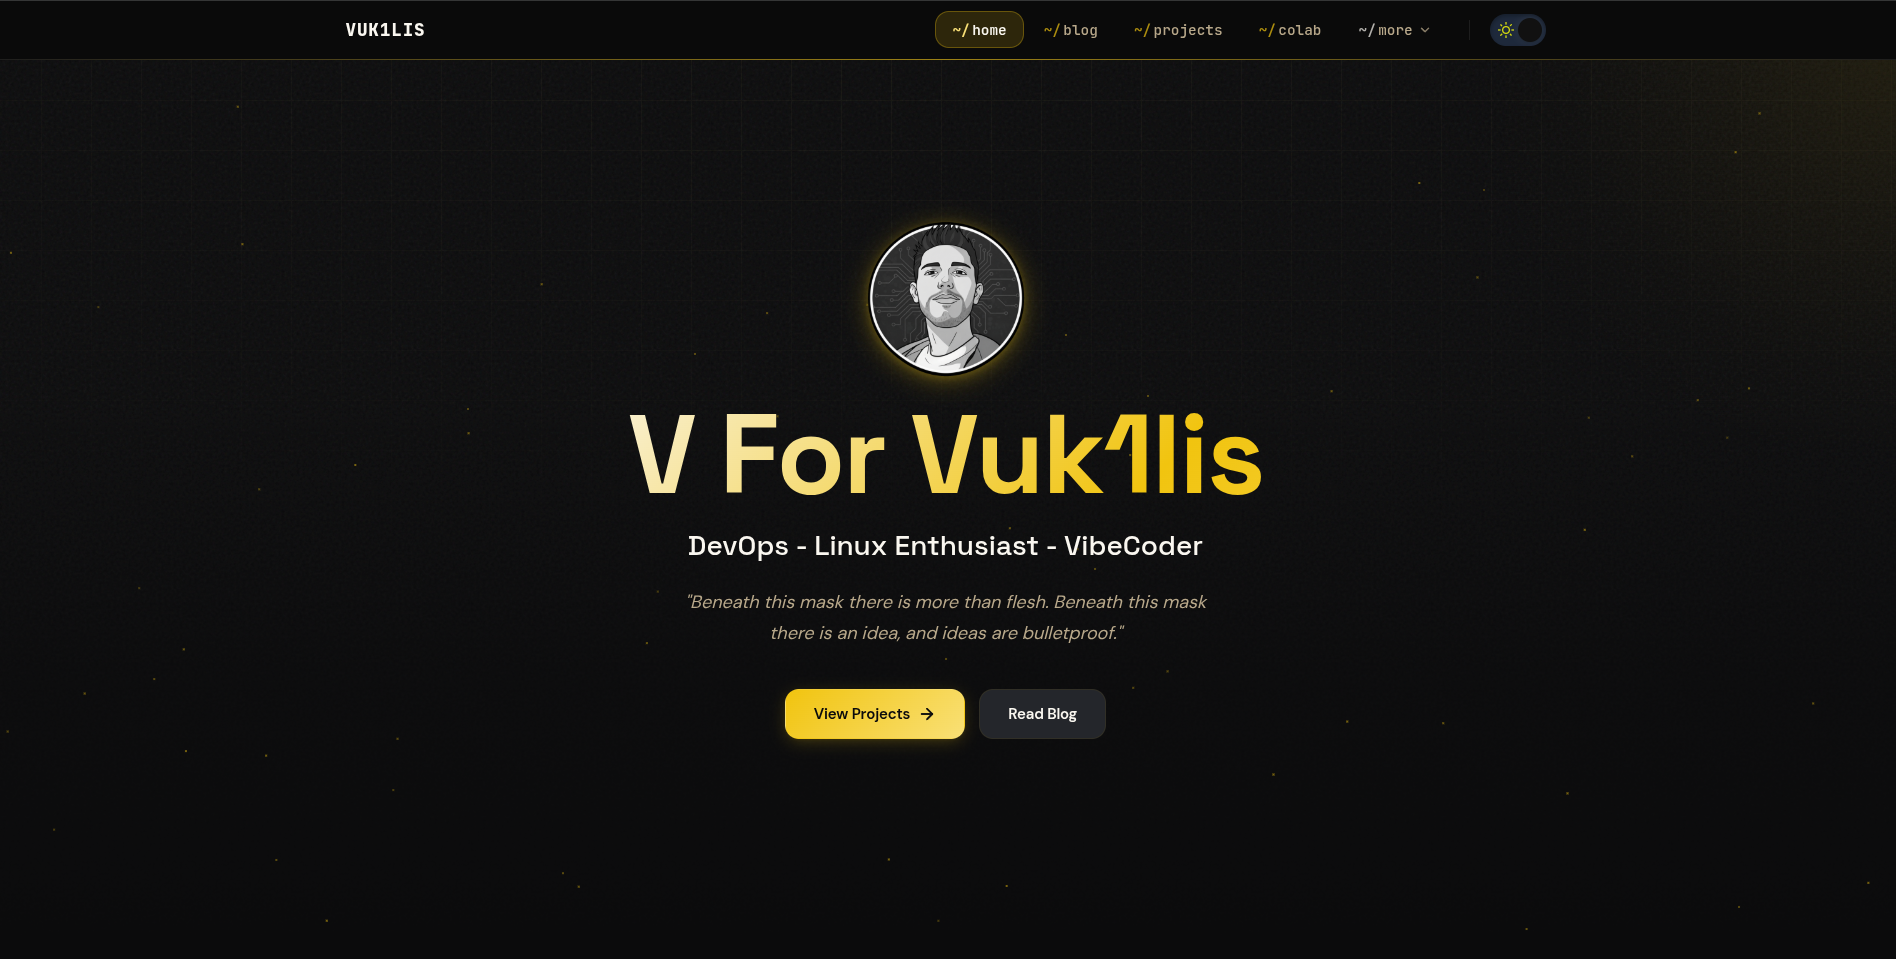
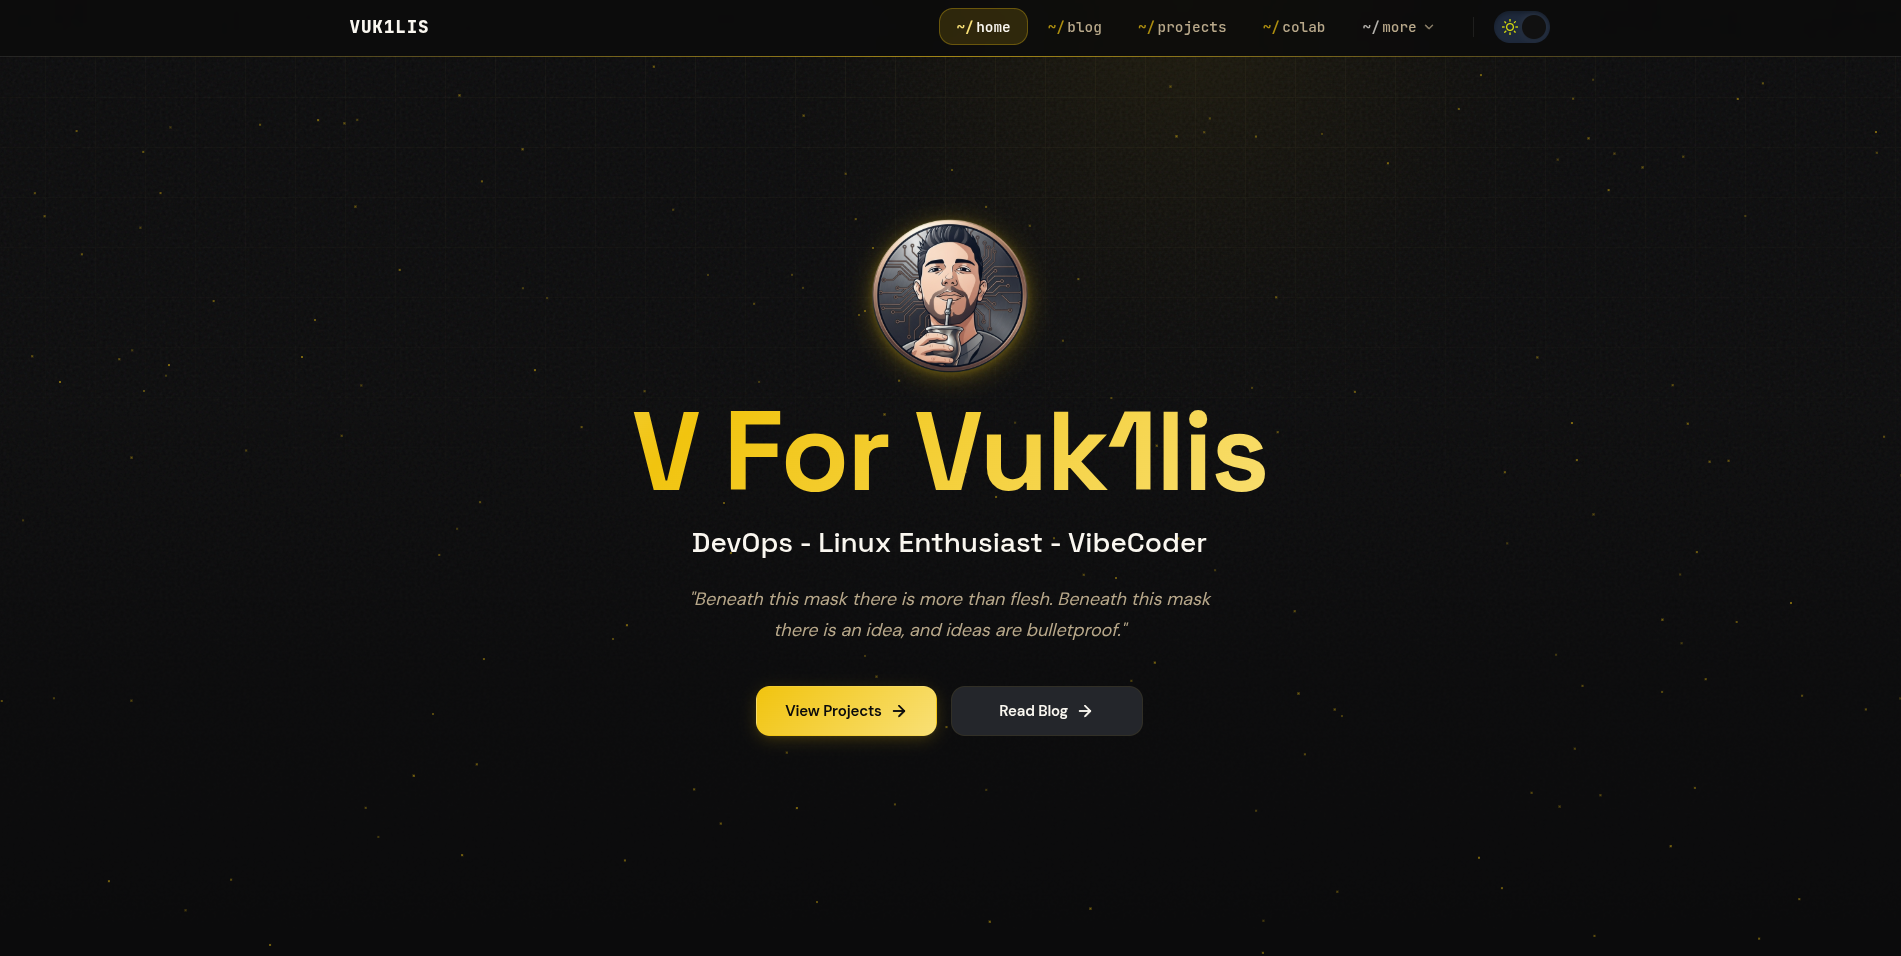
feat(ui): enhance card hover effects and integrate comment system
- Update various card components (skills, blog, music, projects) to use `var(--color-accent-purple)` on hover for consistent branding.
- Integrate `CommentSystem` into the Yerbamate dynamic route pages.
- Add conditional rendering for `LightGalleryInit` to prevent execution on the homelab diagram page.
- Update homelab link paths and metadata to include blog documentation.
- Refine UI styles including backdrop blur and card shadow properties.

diff --git a/src/styles/projects/layout.css b/src/styles/projects/layout.css
@@ -151,7 +151,7 @@
 }
 
 .category-card:hover .card-inner {
-  border-color: rgba(255, 255, 255, 0.12);
+  border-color: var(--color-accent-purple);
 }
 
 /* ============================================================
@@ -214,7 +214,7 @@
     var(--overlay-color-mid2) 45%,
     var(--overlay-color-bot) 100%
   );
-  backdrop-filter: blur(1px);
+  backdrop-filter: blur(2px);
   transition: background 0.4s ease, backdrop-filter 0.4s ease;
 }
 

diff --git a/src/styles/homelab/layout.css b/src/styles/homelab/layout.css
@@ -78,7 +78,7 @@
 }
 
 .category-card:hover .card-inner {
-  border-color: rgba(255, 255, 255, 0.12);
+  border-color: var(--color-accent-purple);
 }
 
 .category-card-overlay {
@@ -90,7 +90,7 @@
     var(--overlay-color-mid) 40%,
     var(--overlay-color-bot) 100%
   );
-  backdrop-filter: blur(1px);
+  backdrop-filter: blur(2px);
   transition: background 0.4s ease, backdrop-filter 0.4s ease;
 }
 

diff --git a/src/styles/projects/card.css b/src/styles/projects/card.css
@@ -41,7 +41,7 @@
 }
 
 .project-card:hover .card-inner {
-  border-color: var(--color-border-hover);
+  border-color: var(--color-accent-purple);
   box-shadow: 0 20px 60px -15px rgba(0, 0, 0, 0.6);
 }
 

diff --git a/src/styles/music/card.css b/src/styles/music/card.css
@@ -41,7 +41,7 @@
 }
 
 .music-card:hover .card-inner {
-  border-color: var(--color-border-hover);
+  border-color: var(--color-accent-purple);
   box-shadow: 0 20px 60px -15px rgba(0, 0, 0, 0.6);
 }
 

diff --git a/src/styles/blog/blog-card.css b/src/styles/blog/blog-card.css
@@ -39,7 +39,7 @@
 }
 
 .blog-card:hover .card-inner {
-  border-color: var(--color-primary);
+  border-color: var(--color-accent-purple);
 }
 
 .blog-card:hover .card-inner {
